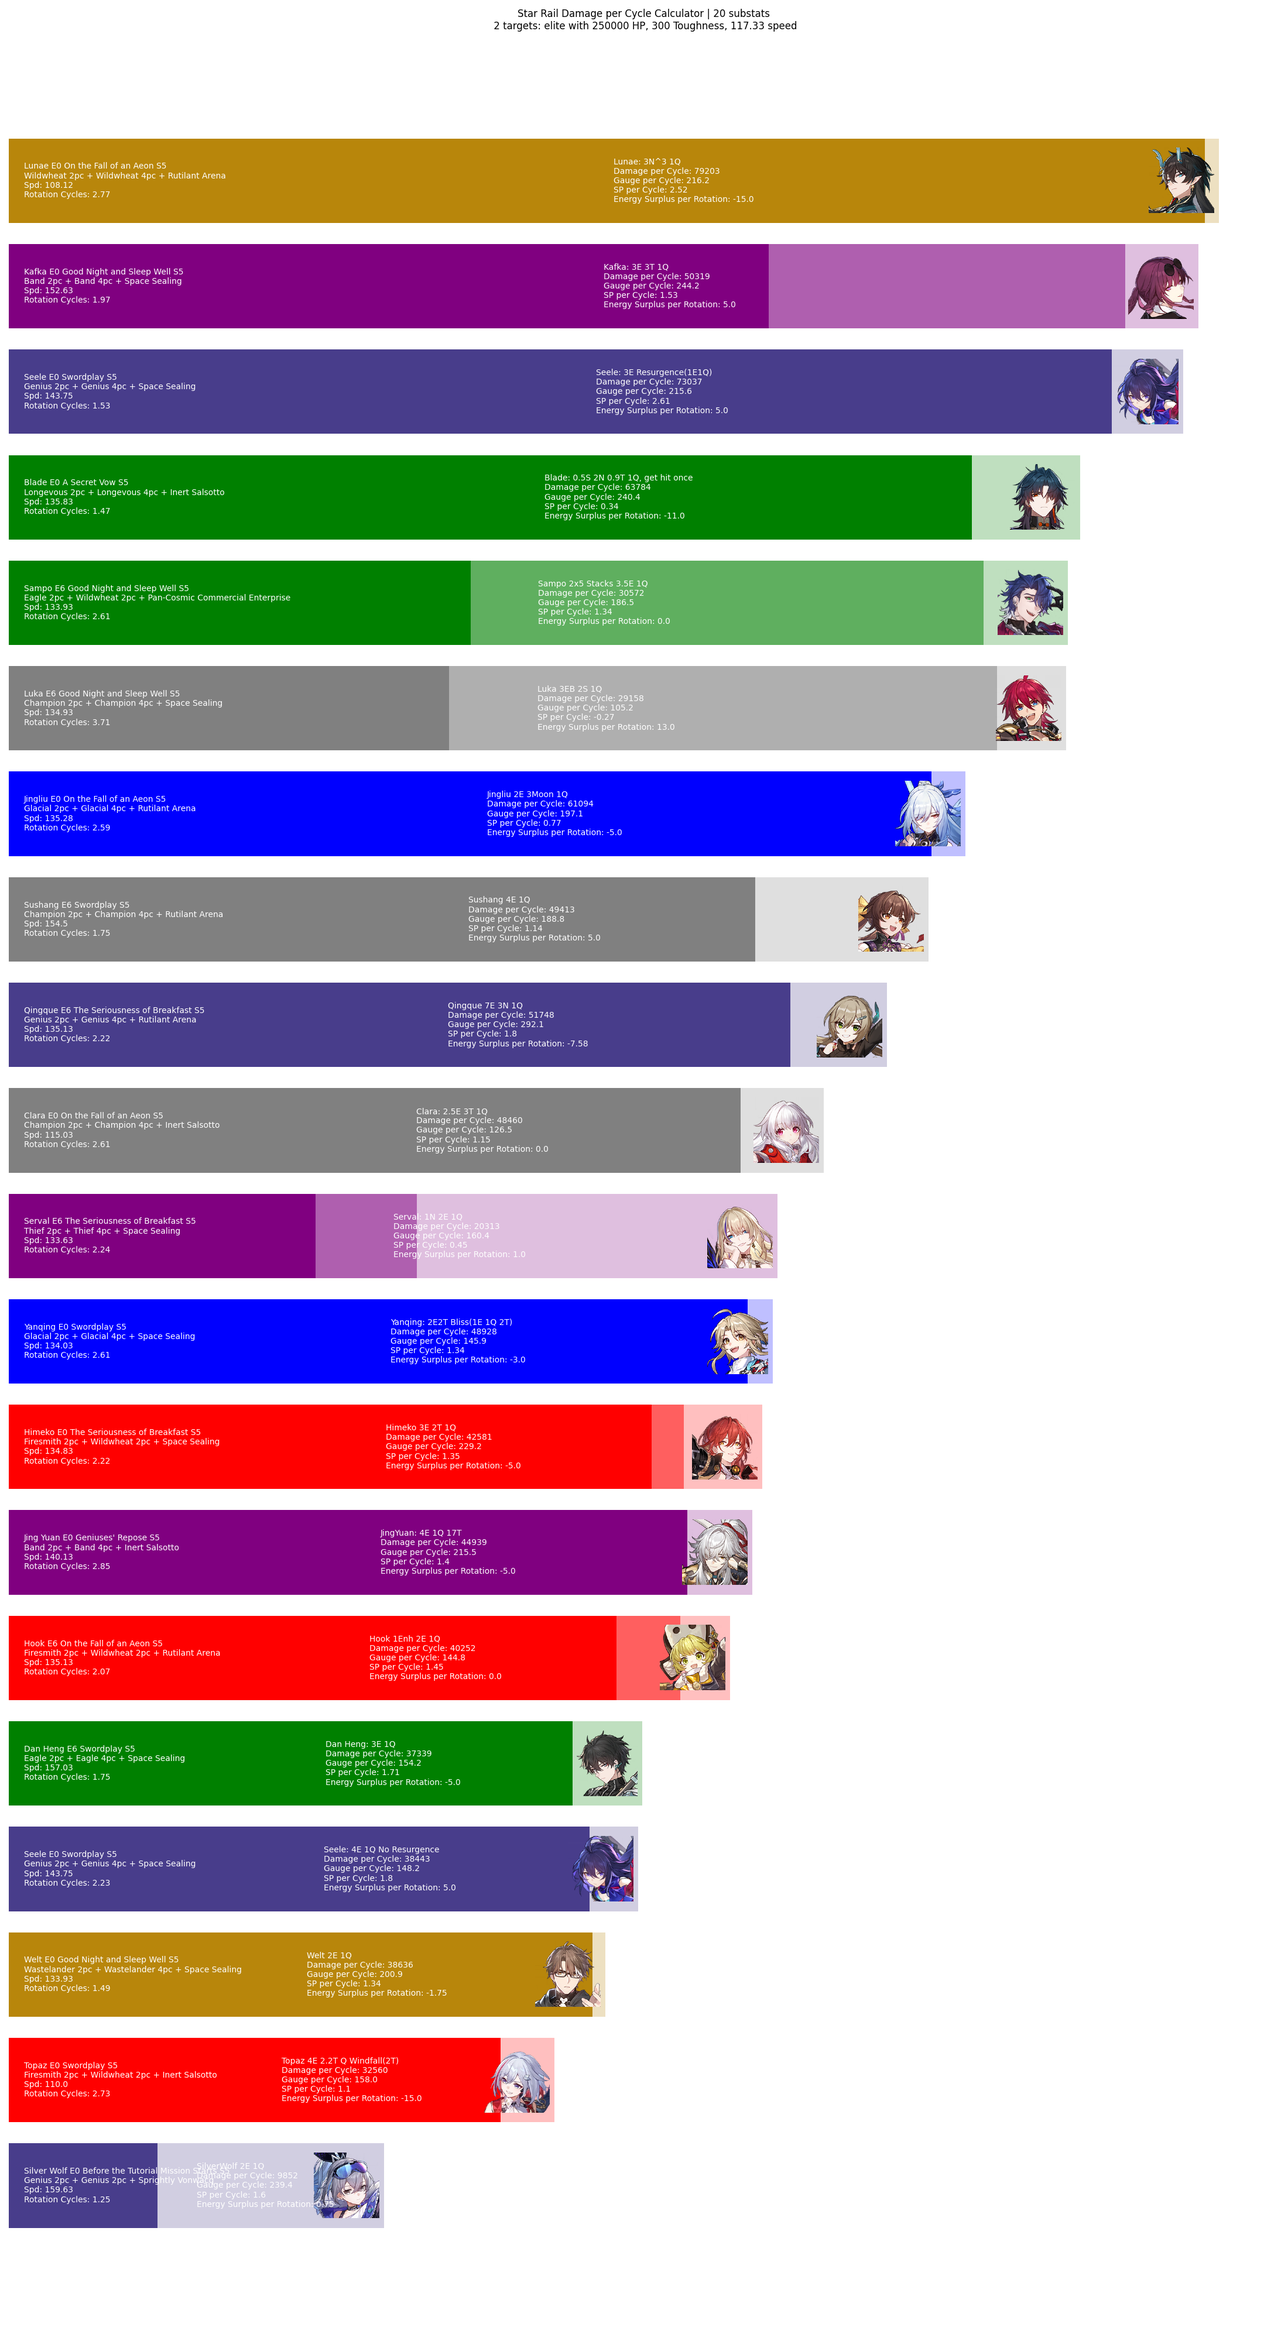
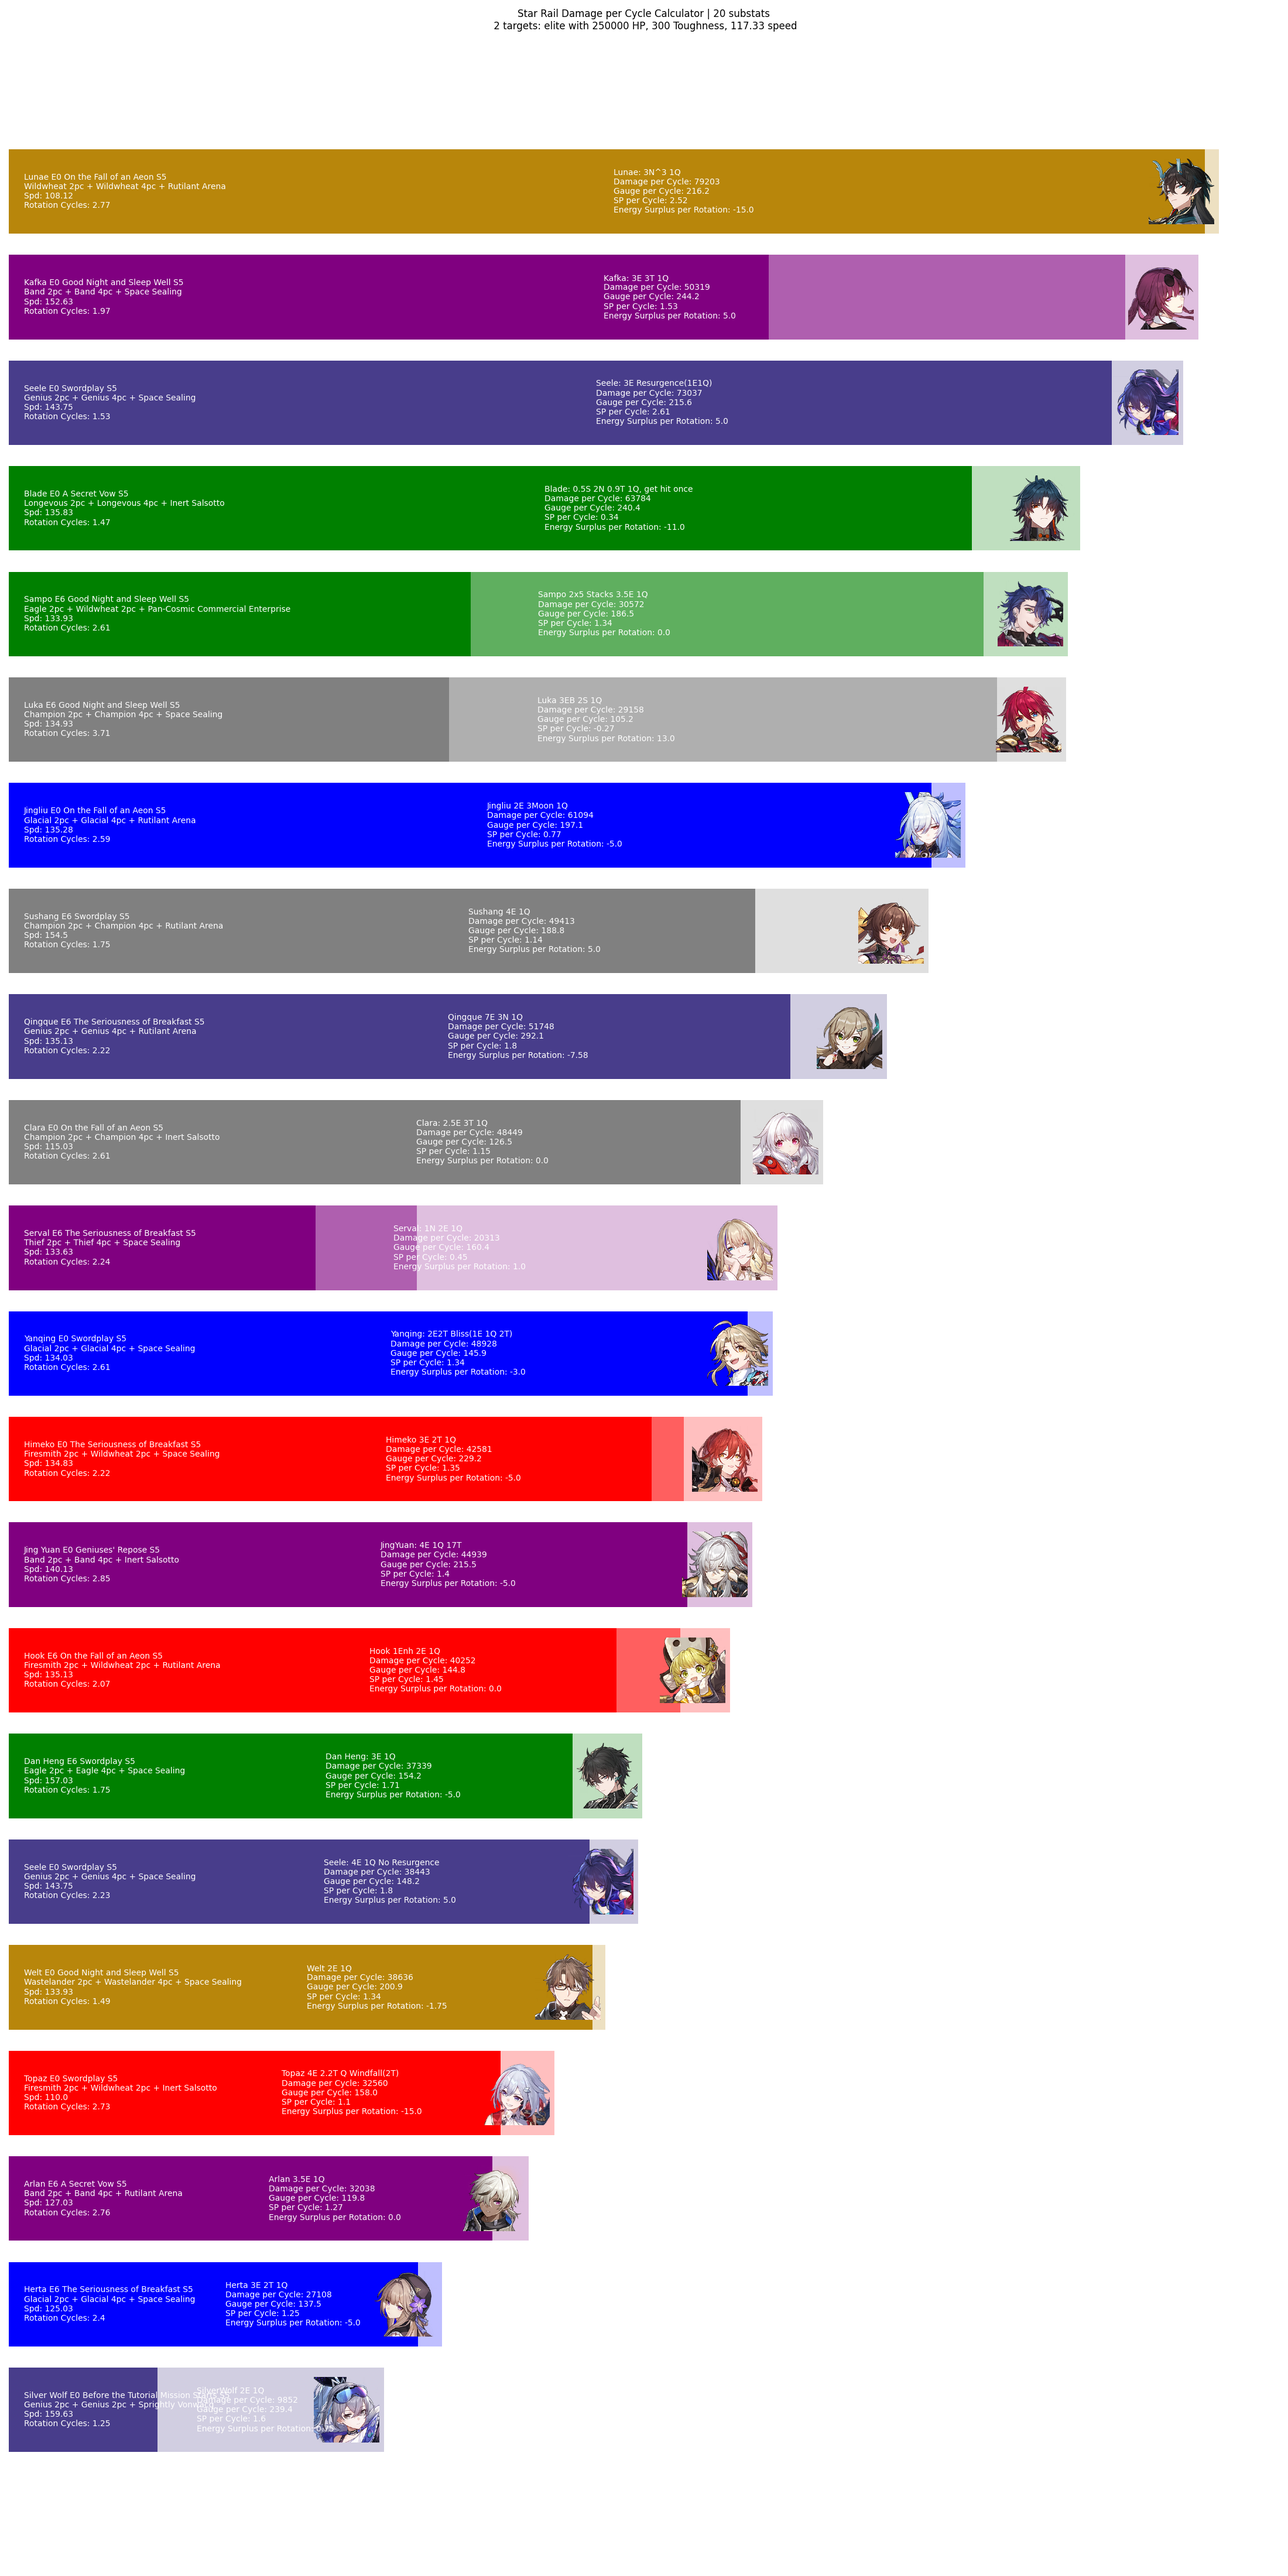
herta arlan

diff --git a/characters/erudition/Herta.py b/characters/erudition/Herta.py
@@ -1,0 +1,102 @@
+from baseClasses.BaseCharacter import BaseCharacter
+from baseClasses.BaseLightCone import BaseLightCone
+from baseClasses.BaseEffect import BaseEffect
+from baseClasses.BaseMV import BaseMV
+from baseClasses.RelicSet import RelicSet
+from baseClasses.RelicStats import RelicStats
+
+class Herta(BaseCharacter):
+  def __init__(self,
+               relicstats:RelicStats,
+               lightcone:BaseLightCone=None,
+               relicsetone:RelicSet=None,
+               relicsettwo:RelicSet=None,
+               planarset:RelicSet=None,
+               hpThresholdUptime:float=0.5,
+               frozenUptime:float=0.5,
+               e2Stacks:float=5.0,
+               e4Stacks:float=1.0,
+               **config):
+    super().__init__(lightcone=lightcone, relicstats=relicstats, relicsetone=relicsetone, relicsettwo=relicsettwo, planarset=planarset, **config)
+    self.loadCharacterStats('Herta')
+    self.hpThresholdUptime = hpThresholdUptime
+    self.frozenUptime = frozenUptime
+    self.e2Stacks = e2Stacks
+    self.e4Stacks = e4Stacks
+    self.ultBuff = False
+    
+    # Motion Values should be set before talents or gear
+    self.motionValueDict['basic'] = [BaseMV(type='basic',area='single', stat='atk', value=1.0, eidolonThreshold=3, eidolonBonus=0.1)]
+    self.motionValueDict['basicE1'] = [BaseMV(type='basic',area='single', stat='atk', value=0.4)]
+    self.motionValueDict['skill'] = [BaseMV(type='skill',area='all', stat='atk', value=1.0, eidolonThreshold=3, eidolonBonus=0.1)]
+    self.motionValueDict['ultimate'] = [BaseMV(type='ultimate',area='all', stat='atk', value=2.0, eidolonThreshold=5, eidolonBonus=0.16)]
+    self.motionValueDict['talent'] = [BaseMV(type=['talent','followup'],area='all', stat='atk', value=0.40, eidolonThreshold=5, eidolonBonus=0.03)]
+    
+    # Talents
+    self.DmgType['ultimate'] += 0.20 * self.frozenUptime
+    self.DmgType['skill'] += 0.45 * self.hpThresholdUptime
+    self.DmgType['talent'] += 0.10 * self.e4Stacks
+    self.CR += 0.03 * self.e2Stacks
+    
+    # Eidolons
+    
+    # Gear
+    self.equipGear()
+
+  def useBasic(self):
+    retval = BaseEffect()
+    retval.damage = self.getTotalMotionValue('basic') + ( self.getTotalMotionValue('basicE1') if self.eidolon >= 1 else 0.0 )
+    retval.damage *= self.getTotalCrit('basic')
+    retval.damage *= self.getTotalDmg('basic')
+    retval.damage = self.applyDamageMultipliers(retval.damage)
+    retval.gauge = 30.0 * (1.0 + self.breakEfficiency)
+    retval.energy = ( 20.0 + self.bonusEnergyType['basic'] ) * ( 1.0 + self.ER )
+    retval.skillpoints = 1.0
+    retval.actionvalue = 1.0 - min(1.0,self.advanceForwardType['basic'])
+    return retval
+
+  def useSkill(self):
+    retval = BaseEffect()
+    retval.damage = self.getTotalMotionValue('skill')
+    retval.damage *= self.getTotalCrit('skill')
+    retval.damage *= self.getTotalDmg('skill')
+    retval.damage = self.applyDamageMultipliers(retval.damage)
+    retval.gauge = ( 30.0 * self.numEnemies ) * (1.0 + self.breakEfficiency)
+    retval.energy = ( 30.0 + self.bonusEnergyType['skill'] ) * ( 1.0 + self.ER )
+    retval.skillpoints = -1.0
+    retval.actionvalue = 1.0 - min(1.0,self.advanceForwardType['skill'])
+    return retval
+
+  def useUltimate(self):
+    retval = BaseEffect()
+    retval.damage = self.getTotalMotionValue('ultimate')
+    retval.damage *= self.getTotalCrit('ultimate')
+    retval.damage *= self.getTotalDmg('ultimate')
+    retval.damage = self.applyDamageMultipliers(retval.damage)
+    retval.gauge = 60.0 * self.numEnemies * (1.0 + self.breakEfficiency)
+    retval.energy = ( 5.0 + self.bonusEnergyType['ultimate'] ) * ( 1.0 + self.ER )
+    retval.actionvalue = 0.0 - min(1.0,self.advanceForwardType['ultimate'])
+    
+    if not self.ultBuff:
+      self.ultBuff = True
+      self.percAtk += 0.25 if self.eidolon >= 6 else 0.0
+    return retval
+
+  def useTalent(self):
+    retval = BaseEffect()
+    retval.damage = self.getTotalMotionValue('talent')
+    retval.damage *= self.getTotalCrit(['talent','followup'])
+    retval.damage *= self.getTotalDmg(['talent','followup'])
+    retval.damage = self.applyDamageMultipliers(retval.damage)
+    retval.gauge = 15.0 * (1.0 + self.breakEfficiency)
+    retval.energy = 5.0 * ( 1.0 + self.ER )
+    retval.actionvalue = 0.0 - min(1.0,self.advanceForwardType['talent'])
+    return retval
+
+  def endTurn(self):
+    retval = BaseEffect()
+    
+    if self.ultBuff:
+      self.ultBuff = False
+      self.percAtk -= 0.25 if self.eidolon >= 6 else 0.0
+    return retval

diff --git a/characters/destruction/Arlan.py b/characters/destruction/Arlan.py
@@ -1,0 +1,72 @@
+from baseClasses.BaseCharacter import BaseCharacter
+from baseClasses.BaseLightCone import BaseLightCone
+from baseClasses.BaseEffect import BaseEffect
+from baseClasses.RelicSet import RelicSet
+from baseClasses.RelicStats import RelicStats
+from baseClasses.BaseMV import BaseMV
+
+class Arlan(BaseCharacter):
+
+  def __init__(self,
+               relicstats:RelicStats,
+               lightcone:BaseLightCone=None,
+               relicsetone:RelicSet=None,
+               relicsettwo:RelicSet=None,
+               planarset:RelicSet=None,
+               percentHP:float=0.5,
+               **config):
+    super().__init__(lightcone=lightcone, relicstats=relicstats, relicsetone=relicsetone, relicsettwo=relicsettwo, planarset=planarset, **config)
+    self.loadCharacterStats('Arlan')
+    self.percentHP = percentHP
+    
+    # Motion Values should be set before talents or gear
+    self.motionValueDict['basic'] = [BaseMV(type='basic',area='single', stat='atk', value=1.0, eidolonThreshold=3, eidolonBonus=0.1)]
+    self.motionValueDict['skill'] = [BaseMV(type='skill',area='single', stat='atk', value=2.4, eidolonThreshold=3, eidolonBonus=0.24)]
+    self.motionValueDict['ultimate'] = [BaseMV(type='ultimate',area='single', stat='atk', value=3.2, eidolonThreshold=5, eidolonBonus=0.256),
+                                      BaseMV(type='ultimate',area='adjacent', stat='atk', value=1.6, eidolonThreshold=5, eidolonBonus=0.128)]
+    self.motionValueDict['ultimateE6'] = [BaseMV(type='ultimate',area='single', stat='atk', value=3.2, eidolonThreshold=5, eidolonBonus=0.256),
+                                      BaseMV(type='ultimate',area='adjacent', stat='atk', value=3.2, eidolonThreshold=5, eidolonBonus=0.256)]
+    
+    # Talents
+    self.Dmg += min(1.0, (0.792 if self.eidolon >= 5 else 0.72) * self.percentHP)
+    
+    # Eidolons
+    self.DmgType['skill'] += 0.10 if self.percentHP <= 0.5 else 0.0
+    self.DmgType['ultimate'] += 0.20 if self.percentHP <= 0.5 else 0.0
+
+    # Gear
+    self.equipGear()
+
+  def useBasic(self):
+    retval = BaseEffect()
+    retval.damage = self.getTotalMotionValue('basic')
+    retval.damage *= self.getTotalCrit('basic')
+    retval.damage *= self.getTotalDmg('basic')
+    retval.damage = self.applyDamageMultipliers(retval.damage)
+    retval.gauge = 30.0 * (1.0 + self.breakEfficiency)
+    retval.energy = ( 20.0 + self.bonusEnergyType['basic'] ) * ( 1.0 + self.ER )
+    retval.skillpoints = 1.0
+    retval.actionvalue = 1.0 - min(1.0,self.advanceForwardType['basic'])
+    return retval
+
+  def useSkill(self):
+    retval = BaseEffect()
+    retval.damage = self.getTotalMotionValue('skill')
+    retval.damage *= self.getTotalCrit('skill')
+    retval.damage *= self.getTotalDmg('skill')
+    retval.damage = self.applyDamageMultipliers(retval.damage)
+    retval.gauge = 60.0 * (1.0 + self.breakEfficiency)
+    retval.energy = ( 30.0 + self.bonusEnergyType['skill'] ) * ( 1.0 + self.ER )
+    retval.skillpoints = -1.0
+    retval.actionvalue = 1.0 - min(1.0,self.advanceForwardType['skill'])
+    return retval
+
+  def useUltimate(self):
+    retval = BaseEffect()
+    retval.damage = self.getTotalMotionValue('ultimateE6') if self.eidolon >= 6 else self.getTotalMotionValue('ultimate')
+    retval.damage *= self.getTotalCrit('ultimate')
+    retval.damage *= self.getTotalDmg('ultimate')
+    retval.damage = self.applyDamageMultipliers(retval.damage)
+    retval.gauge = 60.0 * min(3, self.numEnemies) * (1.0 + self.breakEfficiency)
+    retval.energy = ( 5.0 + self.bonusEnergyType['ultimate'] ) * ( 1.0 + self.ER )
+    return retval

diff --git a/testCases.py b/testCases.py
@@ -7,11 +7,13 @@ from baseClasses.RelicStats import RelicStats
 from estimator.DefaultEstimator import DefaultEstimator
 from visualizer.visualizer import visualize
 
+from characters.destruction.Arlan import Arlan
 from characters.destruction.Blade import Blade
 from characters.destruction.Clara import Clara
 from characters.destruction.Hook import Hook
 from characters.destruction.Jingliu import Jingliu
 from characters.destruction.Lunae import Lunae
+from characters.erudition.Herta import Herta
 from characters.erudition.Himeko import Himeko
 from characters.erudition.JingYuan import JingYuan
 from characters.erudition.Serval import Serval
@@ -379,3 +381,36 @@ print('Skill Damage - Mine: {} - Grimro: {}'.format(skill.damage,10035.72419*0.9
 ultimate = SilverWolfCharacter.useUltimate()
 print('Ultimate Damage - Mine: {} - Grimro: {}'.format(ultimate.damage,19457.01629*0.95)) # 0.95 to factor in toughness multiplier
 
+print('##### Herta #####')
+HertaCharacter = Herta(RelicStats(mainstats = ['percAtk', 'flatSpd', 'CR', 'iceDmg'],
+                        substats = {'flatSpd': 2, 'CR': 10, 'CD': 12}),
+                        lightcone = TheSeriousnessOfBreakfast(**config),
+                        relicsetone = HunterOfGlacialForest2pc(),
+                        relicsettwo = MusketeerOfWildWheat2pc(),
+                        planarset = SpaceSealingStation(),
+                        hpThresholdUptime=0.0,
+                        frozenUptime=0.0,
+                        e2Stacks=5.0,
+                        e4Stacks=1.0,
+                        **config)
+
+skill = HertaCharacter.useSkill()
+print('Skill Damage - Mine: {} - Grimro: {}'.format(skill.damage,15817.83837*0.95)) # 0.95 to factor in toughness multiplier
+talent = HertaCharacter.useTalent()
+print('Talent Damage - Mine: {} - Grimro: {}'.format(talent.damage,6499.975867*0.95)) # 0.95 to factor in toughness multiplier
+ultimate = HertaCharacter.useUltimate()
+print('Ultimate Damage - Mine: {} - Grimro: {}'.format(ultimate.damage,31060.48263*0.95)) # 0.95 to factor in toughness multiplier
+
+print('##### Arlan #####')
+ArlanCharacter = Arlan(RelicStats(mainstats = ['percAtk', 'flatSpd', 'CR', 'lighDmg'],
+                        substats = {'flatSpd': 2, 'CR': 10, 'CD': 12}),
+                        lightcone = OnTheFallOfAnAeon(uptime = 0.0, stacks=4.0, **config),
+                        relicsetone = BandOfSizzlingThunder2pc(),
+                        relicsettwo = BandOfSizzlingThunder4pc(),
+                        planarset = RutilantArena(),
+                        **config)
+
+skill = ArlanCharacter.useSkill()
+print('Skill Damage - Mine: {} - Grimro: {}'.format(skill.damage,16828.36764*0.95)) # 0.95 to factor in toughness multiplier
+ultimate = ArlanCharacter.useUltimate()
+print('Ultimate Damage - Mine: {} - Grimro: {}'.format(ultimate.damage,63064.6214*0.95)) # 0.95 to factor in toughness multiplier

diff --git a/main.py b/main.py
@@ -6,11 +6,13 @@ from baseClasses.RelicStats import RelicStats
 from estimator.DefaultEstimator import DefaultEstimator
 from visualizer.visualizer import visualize
 
+from characters.destruction.Arlan import Arlan
 from characters.destruction.Blade import Blade
 from characters.destruction.Clara import Clara
 from characters.destruction.Hook import Hook
 from characters.destruction.Jingliu import Jingliu
 from characters.destruction.Lunae import Lunae
+from characters.erudition.Herta import Herta
 from characters.erudition.Himeko import Himeko
 from characters.erudition.JingYuan import JingYuan
 from characters.erudition.Serval import Serval
@@ -152,7 +154,7 @@ if __name__ == '__main__':
     
     # Clara
     ClaraCharacter = Clara(RelicStats(mainstats = ['percAtk', 'flatSpd', 'CR', 'physDmg'],
-                            substats = {'CR': 10, 'CD': 10}),
+                            substats = {'CR': 7, 'CD': 13}),
                 lightcone = OnTheFallOfAnAeon(uptime = 0.25, stacks=5.0, **config),
                 relicsetone = ChampionOfStreetwiseBoxing2pc(),
                 relicsettwo = ChampionOfStreetwiseBoxing4pc(),
@@ -452,5 +454,37 @@ if __name__ == '__main__':
     ]
     
     DefaultEstimator('SilverWolf 2E 1Q', SilverWolfRotation, SilverWolfCharacter, config, VisualizationDict)
+    
+    # Herta
+    HertaCharacter = Herta(RelicStats(mainstats = ['percAtk', 'flatSpd', 'CR', 'iceDmg'],
+                        substats = {'CR':6,'CD':14}),
+                lightcone = TheSeriousnessOfBreakfast(**config),
+                relicsetone = HunterOfGlacialForest2pc(), relicsettwo = HunterOfGlacialForest4pc(), planarset = SpaceSealingStation(),
+                **config)
+    
+    HertaRotation = [ # 
+            HertaCharacter.useSkill() * 2,
+            HertaCharacter.useTalent(),
+            HertaCharacter.useUltimate(),
+            HertaCharacter.useSkill(),
+            HertaCharacter.useTalent(),
+            HertaCharacter.endTurn(),
+    ]
+    
+    DefaultEstimator('Herta 3E 2T 1Q', HertaRotation, HertaCharacter, config, VisualizationDict)
+    
+    # Arlan
+    ArlanCharacter = Arlan(RelicStats(mainstats = ['percAtk', 'flatSpd', 'CR', 'lighDmg'],
+                        substats = {'CR':7,'CD':13}),
+                lightcone = ASecretVow(**config),
+                relicsetone = BandOfSizzlingThunder2pc(), relicsettwo = BandOfSizzlingThunder4pc(), planarset = RutilantArena(),
+                **config)
+    
+    ArlanRotation = [ # 
+            ArlanCharacter.useSkill() * 3.5,
+            ArlanCharacter.useUltimate(),
+    ]
+    
+    DefaultEstimator('Arlan 3.5E 1Q', ArlanRotation, ArlanCharacter, config, VisualizationDict)
 
     visualize(VisualizationDict, **config)

diff --git a/characters/destruction/Clara.py b/characters/destruction/Clara.py
@@ -39,7 +39,6 @@ class Clara(BaseCharacter):
 
     # Gear
     self.equipGear()
-    self.balanceCrit()
 
   def useBasic(self):
     retval = BaseEffect()

diff --git a/characters/destruction/Hook.py b/characters/destruction/Hook.py
@@ -44,7 +44,6 @@ class Hook(BaseCharacter):
 
     # Gear
     self.equipGear()
-    #self.balanceCrit()
 
   def useBasic(self):
     retval = BaseEffect()
